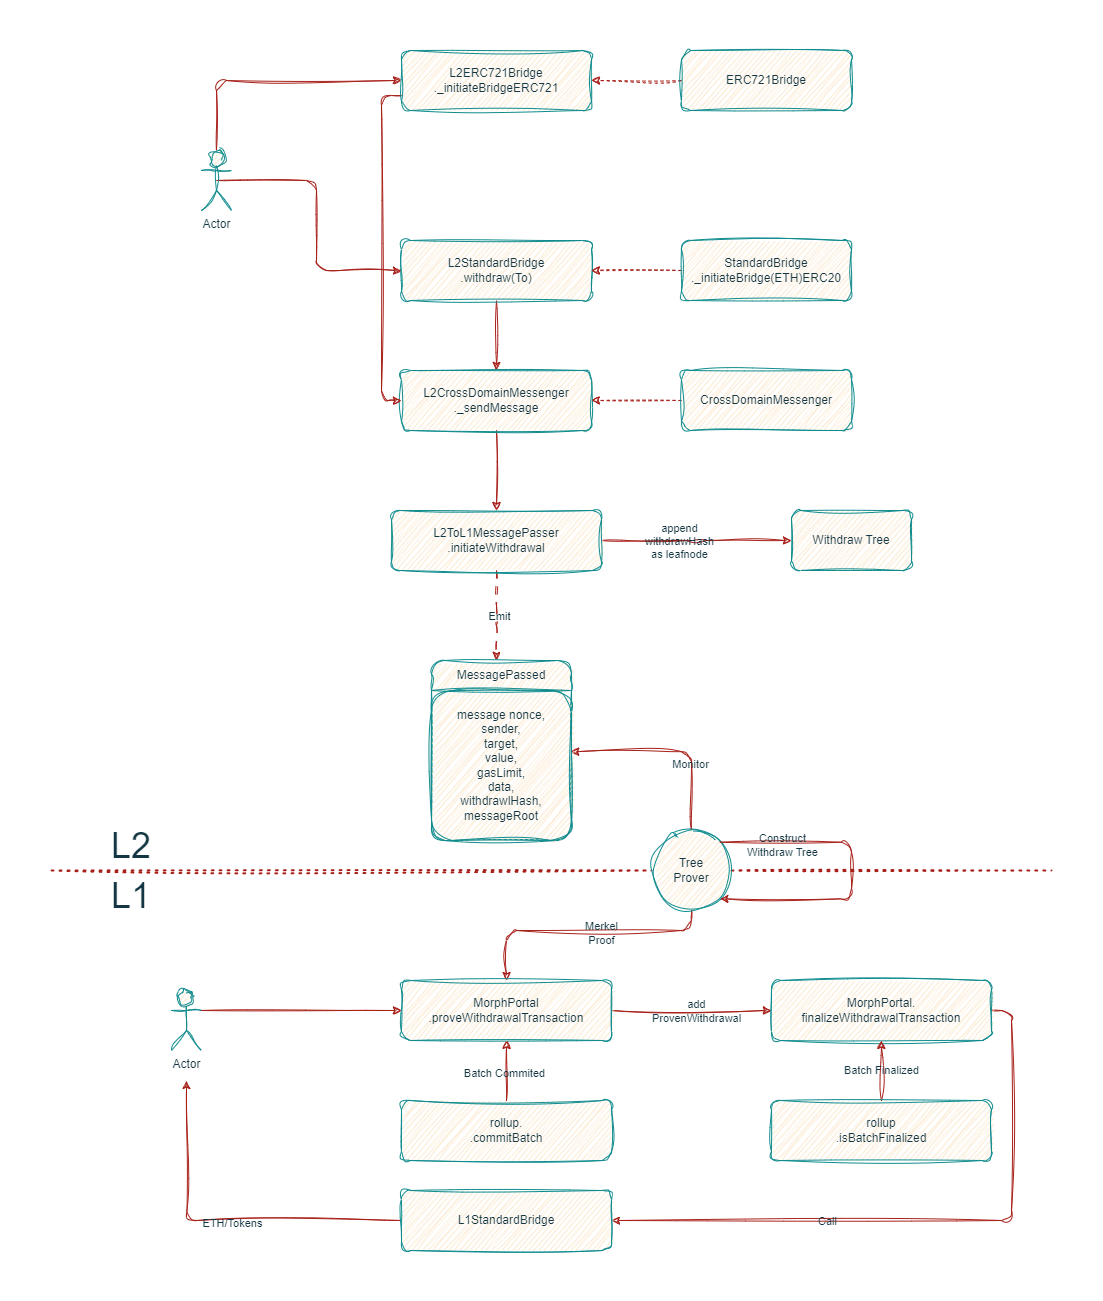
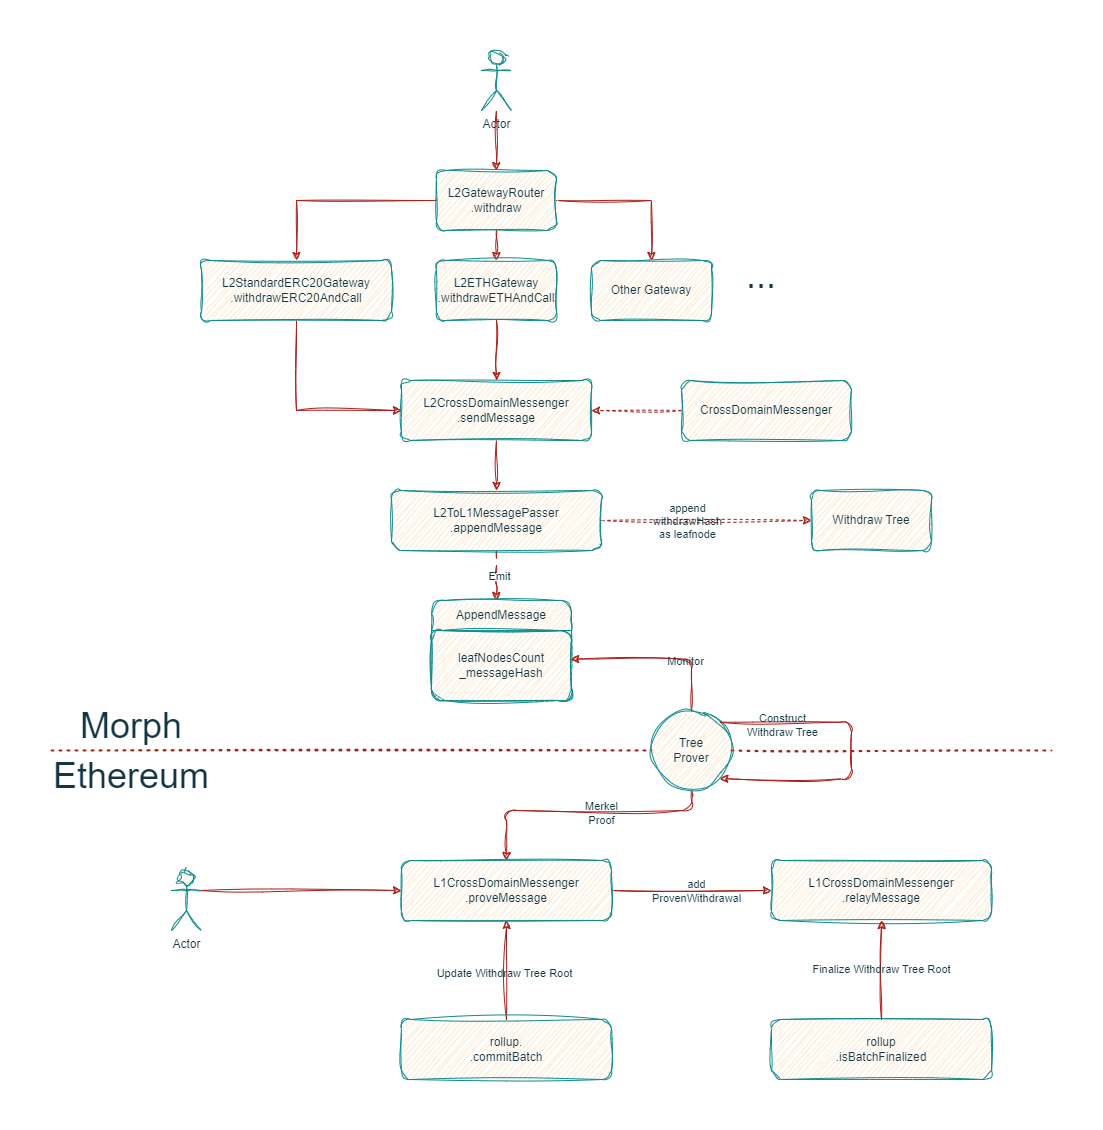
Bridge Update

diff --git a/docusaurus.config.js b/docusaurus.config.js
@@ -99,6 +99,8 @@ const config = {
       }),
     ],
   ],
+
+  /*
   stylesheets: [
     {
       href: 'https://cdn.jsdelivr.net/npm/katex@0.13.24/dist/katex.min.css',
@@ -108,6 +110,7 @@ const config = {
       crossorigin: 'anonymous',
     },
   ],
+  */
 
   themeConfig:
     /** @type {import('@docusaurus/preset-classic').ThemeConfig} */

diff --git a/docs/how-morph-works/general-protocol-design/2-communicate-between-morph-and-ethereum.md b/docs/how-morph-works/general-protocol-design/2-communicate-between-morph-and-ethereum.md
@@ -15,33 +15,73 @@ Once the minting is complete, a user or intended recipient can claim the asset i
 
 Furthermore, the bridge’s utility extends beyond asset bridging, as token transfers operate under the same principle as message transfers. The bridge can, therefore, also facilitate cross-layer message bridging, allowing for data payloads to be transported between networks.
 
+## Understand Gateway
+
+Gateway is the direct entry point for users to interact with the entire bridge system. Even though the underlying mechanism for cross-layer asset transfers still relies on cross-layer message transmission to achieve the desired outcome, we recommend using the Gateway approach for your cross-layer asset needs.
+
+For various cross-layer asset requirements, we have designed different Gateways such as the ETH Gateway, standard ERC20 Gateway, etc. On top of the Gateways, we have implemented the Gateway Router to call different Gateways based on the type of assets you have, allowing you to interact seamlessly with the Gateway Router contract.
+
+
+
+| L1 Gateway Contract         | Description                                                      |
+| ------------------------ | ---------------------------------------------------------------- |
+| `L1GatewayRouter`        | The gateway router supports the deposit of ETH and ERC20 tokens. |
+| `L1ETHGateway`           | The gateway to deposit ETH.                                      |
+| `L1StandardERC20Gateway` | The gateway for standard ERC20 token deposits.                   |
+| `L1CustomERC20Gateway`   | The gateway for custom ERC20 token deposits.                     |
+| `L1WETHGateway`          | The gateway for Wrapped ETH deposits.                            |
+
+
+| L2 Gateway Contract         | Description                                                      |
+| ------------------------ | ---------------------------------------------------------------- |
+| `L2GatewayRouter`        | The gateway router supports the withdraw of ETH and ERC20 tokens. |
+| `L2ETHGateway`           | The gateway to withdraw ETH.                                      |
+| `L2StandardERC20Gateway` | The gateway for standard ERC20 token withdraw.                   |
+| `L2CustomERC20Gateway`   | The gateway for custom ERC20 token withdraw.                     |
+| `L2WETHGateway`          | The gateway for Wrapped ETH withdraw.                            |
 
 
 ## Deposit (L1 to L2 message) 
 
 ![Deposit Process](../../../assets/docs/protocol/general/bridge/deposit.png)
 
-### Construct a deposit request through Standard Bridge (Optional)
+### Construct a deposit request through Gateway
 
-A bridge request, whether it is for ETH, ERC20, or ERC721, is essentially a cross-chain message, which necessitates the initial construction of a message. Generally, the message structure remains consistent, especially for ETH & ERC20 token bridges.
+A bridge request, whether it is for ETH, ERC20, or ERC721, is essentially a cross-layer message, which necessitates the initial construction of a message. Generally, the message structure remains consistent, especially for ETH & ERC20 Gateways.
 
-Employing a standard bridge assembles a conventional token bridge message and relays it to the ```CrossDomainMessenger```
+Employing a token gateway assembles a conventional token bridge message and relays it to the ```CrossDomainMessenger```
 
 ### Pass the message through CrossDomainMessenger
 
 
 The ```CrossDomainMessenger`` is the basic unit of cross-layer communication.
-There are messenger contracts on both Layer 1 and Layer 2. For a deposit, the L1 messenger sends a message to the L2 messenger.
+There are messenger contracts on both Layer 1 and Layer 2. 
+
+For a deposit, the L1 messenger sends a message to the L2 messenger.
 
 The interaction mirrors a contract call on Layer 1, which means custom messages (contract interactions) can be constructed to perform various types of cross-layer interactions.
 
 ### Execute the message on Layer 2
 
-The cross-domain message is delivered to the ```MophismPortal```, which then triggers an event called ```TransactionDeposited```.
+The cross-domain message is delivered to the ```L1MessageQueueWithGasPriceOracle```, which then triggers an event called ```QueueTransaction```.
 
 The Sequencer will monitor this event and include a Layer 2 transaction in its next block.
 
-A Layer 2 executor, holding the cross-chain message, interacts with the L2 messenger to execute the message, which may include transferring L2 ETH or ERC20 tokens to the recipient.
+:::info How to make sure Sequencer don't fake a deposit transaction?
+
+Sequencers may have the motivation to forge a non-existent deposit transaction, such as mint a large amount of Layer 2 tokens and transferring them to their own address. 
+
+Morph prevents such events through two barriers. 
+
+Firstly, due to the decentralized Sequencer architecture used by Morph, forging transactions would require control of at least two-thirds of the Sequencers, which is not easy. 
+
+Secondly, within Morph's optimistic zkEVM framework, challengers will be able to detect such malicious behavior and initiate challenges to correct any misconduct.
+:::
+
+
+A Layer 2 executor, holding the cross-layer message, interacts with the L2 messenger to execute the message, which may include transferring L2 ETH or ERC20 tokens to the recipient.
+
+
 
 
 ## Withdraw (L2 -> L1 message) 
@@ -59,9 +99,10 @@ To achieve this, we introduce a structure known as a Withdraw Tree, which record
 The term Withdraw Tree refers to an append-only Sparse Merkle Tree (SMT) whose leaf nodes record information on assets being transferred out of the network.
 A leaf within the Withdraw Tree is termed a Withdraw leaf. These withdraw leaves are classified into two types: type 0 for recording asset(s) information and type 1 for recording messaging information.
 
-A withdraw leaf, in particular, is a Keccak256 hash of the ABI encoded packed structure with the following parameters:
+A withdraw leaf, in particular, is a Keccak256 hash of the ABI encoded packed structure with cross domain message:
 
 The Withdraw Tree is instrumental in cataloging withdrawal transactions and ascertaining the legitimacy of withdrawal requests.
+
 Morph has pre-deployed a Simple Merkle Tree contract dedicated to constructing the Layer 2 withdraw tree.
 
 This tree incorporates three methods:
@@ -72,14 +113,63 @@ This tree incorporates three methods:
 
 ### Verify the withdraw tree
 
-A withdrawal request on Layer 2 will culminate in the emission of an event. Our official bridge frontend and SDK provide a service that uses a Tree Prover to construct the appropriate Merkel proof.
+A withdrawal request on Layer 2 will culminate in the emission of an event. 
 
-Bridgers require this proof to invoke ```proveWithdrawTransaction``` within the ```MorphPortal``` contract to substantiate their withdrawal request. Once validated, the withdrawal request will be marked as proven and await finalization.
+Our official bridge frontend and SDK provide a service that uses a Tree Prover to construct the appropriate Merkel proof.
+
+Bridgers require this proof, the withdrawTree root and the cross-domain message data (accessible by SDK),to invoke ```proveMessage``` within the ```L1CrossDomainMessenger``` contract to substantiate their withdrawal request. Typically:
+
+```solidity
+function proveMessage(
+        address _from,
+        address _to,
+        uint256 _value,
+        uint256 _nonce,
+        bytes memory _message,
+        bytes32[32] calldata _withdrawalProof,
+        bytes32 _withdrawalRoot
+    )
+```
+
+Once validated, the withdrawal request will be marked as proven and await finalization.
 
 ### Challenge Period
 
 Additionally, because of the Optimistic zkEVM design, every transaction (including withdrawals) on Layer 2 must be submitted to Layer 1 and face a challenge period before finalization.
 
-This process is vital to validate the Layer 2 state, including withdrawal transactions. The withdraw tree root, integral for withdrawal request verification, is also submitted by sequencers once the challenge period, batches, and states have been finalized.
+This process is vital to validate the Layer 2 state, including withdrawal transactions. 
 
-If the withdrawal is proven and finalized, bridgers may then employ the "MorphPortal" to process the withdrawal on Layer 1.
+The withdraw tree root, integral for withdrawal request verification, is also submitted by sequencers once the challenge period, batches, and states have been finalized.
+
+If the withdrawal is proven and finalized, bridgers may then call the ```relayMessage``` method within the ```L1CrossDomainMessenger``` contract to execute the withdraw message.
+
+```solidity
+function relayMessage(
+        address _from,
+        address _to,
+        uint256 _value,
+        uint256 _nonce,
+        bytes memory _message
+    )
+```
+
+In most cases, it is the ETH trasfer from the bridge conrtact to users.
+
+## Cross-layer (Bridge) Errors
+
+In the design of cross-layer bridges, the cross-layer message for deposit needs to be executed and have its Layer 2 states updated before it is considered "finalized". 
+
+Prior to this, there is a possibility of the cross-layer message failing during execution on the Layer 2. This section outlines the potential scenarios and solutions for handling failed cross-layer deposit messages.
+
+### Cross-layer (Bridge) Failure Scenarios:
+
+- Cross-layer messages sent from the L1 to the L2 may fail in execution on the L2 due to limitations in gasLimit or code logic. Some data executions may cause overflow in the circuits of the L2 nodes, leading to the skipping of cross-layer messages.
+
+- When a cross-layer message is sent by the L1CrossdomainMessenger contract on the L1, the corresponding message hash is stored, but the gasLimit is not included in the calculation. The L2CrossdomainMessenger on the L2 performs the same calculation after executing the information, storing the contract call result in mapping(isL1MessageExecuted) to prevent multiple executions of the same message and to update gasLimit parameters for resending failed messages.
+
+ 
+### Handling Cross-layer (Bridge) Failures:
+
+- If gasLimit is insufficient, causing a failed execution on the L2, a new cross-layer message with a different gasLimit parameter can be sent by calling L1CrossdomainMessenger.replayMessage.
+- Messages dropped due to excessive gasLimit parameters or circuit overflow on the L2 can be skipped and not executed. Custom cross-layer calling contracts need to implement the onDropMessage method.
+- The gateway contract includes the onDropMessage method, which refunds the initiator of the cross-layer message. Calling L1CrossdomainMessenger.dropMessage discards the cross-layer message and triggers the onDropMessage method of the sending contract, with the transaction's value and message as msg.value and method parameters, respectively.
